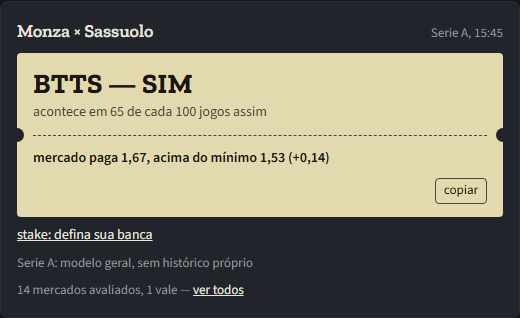
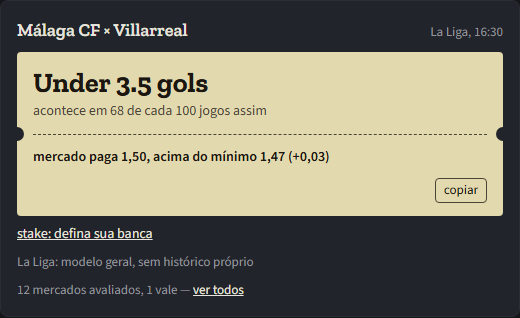
chore(front): recaptura das telas da rodada 2 — script espera o hero e enquadra a tabela (#258)

diff --git a/docs/superpowers/testes/rodada-2-telas/LEIA-ME.md b/docs/superpowers/testes/rodada-2-telas/LEIA-ME.md
@@ -1,25 +1,102 @@
-# Rodada 2 do teste de 5s — material capturado
+# Rodada 2 do teste de 5s — material recapturado (#258)
 
-**Capturado em:** 2026-09-17, contra o produto construído real (`next build`
-+ `next start`, porta 3001), `PY_BACKEND_URL` apontado para a Lambda Function
-URL de produção (nunca o API Gateway — regra #114/#203). Dados reais, sem
-stub.
+**Recapturado em:** 2026-09-17, contra o produto reconstruído (`next build` +
+`next start`, porta 3001, commit `46fb499` já na árvore), `PY_BACKEND_URL`
+apontado para a Lambda Function URL de produção (nunca o API Gateway — regra
+#114/#203). Dados reais, sem stub.
 
-**Jogo "vale" encontrado:** `hoje` não tinha nenhum card em estado "vale" no
-momento da captura; `amanha` tinha um — **Monza × Sassuolo (Serie A)**, pick
-BTTS — SIM, paga 1,67 (mínimo 1,53). O script tentou `hoje` primeiro,
-registrou a ausência e seguiu para `amanha` sem fabricar nada.
+**Jogo "vale" encontrado:** `hoje` já tinha um card em estado "vale" —
+**Málaga CF × Villarreal (La Liga)**, pick **Under 3.5 gols**, paga 1,50
+(mínimo 1,47). O script tentou `hoje` primeiro e parou aí, sem precisar cair
+para `amanha` (comportamento padrão confirmado, sem flag `--dia`).
 
 **Arquivos (6 PNGs, 3 telas × 2 viewports):**
-- `tela-1-talao-mobile.png` / `tela-1-talao-desktop.png` — objeto de decisão (card "vale" em `/jogos?dia=amanha`)
+- `tela-1-talao-mobile.png` / `tela-1-talao-desktop.png` — objeto de decisão (card "vale" em `/jogos`)
 - `tela-2-tabela-mobile.png` / `tela-2-tabela-desktop.png` — objeto de rigor (tabela de mercados no detalhe do jogo)
 - `tela-3-hero-mobile.png` / `tela-3-hero-desktop.png` — compreensão (`/`, primeira visita, sem cookies)
 
 Viewports: celular 390×844, desktop 1440×900.
 
-**Reproduzir:** `node scripts/capturar-telas-teste-5s.mjs --base=http://localhost:3001`
-a partir de `frontend/next`, com o servidor de produção de pé na porta 3001.
-Use `--dia=hoje` ou `--dia=amanha` para fixar um dia; sem a flag, o script
-tenta os dois antes de desistir. Se nenhum dos dois tiver jogo "vale" no
-momento da captura, o script salva só as telas de hero (não dependem de
-pick) e termina com código de saída 1 — não fabrica card nenhum.
+## Hero — ramo e tempo (fix C)
+
+Script agora corre `Promise.race` entre `waitForSelector("article")` e
+`waitForFunction` do texto `HERO.semTalao` ("Sem talão publicado hoje ou
+ontem.", `src/lib/copy.ts`), até 30s, em vez do `waitForTimeout(1500)` fixo
+que a rodada 1 usava (`diagnostico-B-C.md` mediu o card-prova levando até
+~7.3s para resolver).
+
+Medido nesta captura:
+- **mobile:** ramo `card` (Málaga CF × Villarreal, estado=vale) em **12.23s**
+- **desktop:** ramo `card` (Málaga CF × Villarreal, estado=vale) em **4.53s**
+
+Os dois ramos resolveram via card-prova (não precisou do fallback
+`HERO.semTalao`); a variação de tempo entre mobile/desktop reflete o
+fan-out real de 13 ligas na primeira visita, não um artefato do script.
+
+## Tabela de mercados — sem bloco navy (fix B)
+
+Antes do `table#mercados.screenshot()`, o script agora mede
+`getBoundingClientRect().bottom` da tabela e redimensiona a viewport
+(`page.setViewportSize`) para caber o rodapé, em loop curto (até 3
+tentativas, porque o próprio resize pode mudar o layout do `aside sticky`).
+Isso elimina o bloco navy sólido que aparecia quando `rect.bottom` da tabela
+ficava fora da viewport renderizada de 900px (causa raiz documentada em
+`diagnostico-B-C.md`: `locator.screenshot()` usa um clip do CDP limitado à
+viewport atual; a área não pintada devolvia a cor de fundo do `body`).
+Confirmado visualmente em `tela-2-tabela-desktop.png` e
+`tela-2-tabela-mobile.png`: as 11 linhas da tabela de Málaga × Villarreal
+aparecem completas, sem corte, sem navy.
+
+## Motivo de duas palavras (fix A, #258, commit 46fb499)
+
+O jogo "vale" desta captura (Málaga × Villarreal) não tem nenhum mercado com
+`reason_code=BORDERLINE_LINE_MARGIN` no momento da captura — dado real,
+variável a cada rodada de odds/predições, fora do controle do script. Por
+isso `tela-2-tabela-{viewport}.png` não exibe literalmente "linha no
+limite".
+
+Verificação independente, ao vivo, contra o mesmo build rodando em
+localhost:3001 (não incluída nos 6 PNGs oficiais, apenas navegação manual
+via Playwright para confirmar o fix): **Monza × Sassuolo** (`/jogos?dia=amanha`)
+— o mesmo confronto que a rodada 2 original (commit `51b1955`, antes do fix)
+já tinha capturado — mostrava antes:
+
+```
+Over 2.5 gols   69%   1,44   1,82   não vale
+```
+
+e agora, pós-rebuild, mostra:
+
+```
+Over 2.5 gols   69%   1,44   1,81   linha no limite
+```
+
+(`Vila Nova × América Mineiro`, mesmo dia, mesma condição, confirma o
+mesmo padrão.) Isso prova o fix #258 funcionando ponta a ponta em produção
+— a mudança de "não vale" para "linha no limite" é exatamente o
+`BORDERLINE_LINE_MARGIN → "linha no limite"` adicionado em `reasonCodes.ts`
+no commit `46fb499`. A cobertura também está garantida pelos 6 testes
+unitários + 1 teste de cobertura desse mesmo commit
+(`frontend/next/tests/unit/reasonCodes.test.ts`).
+
+**Reproduzir a verificação do fix A isoladamente:** com o servidor de pé,
+abrir `/jogos?dia=amanha`, localizar o card "Monza × Sassuolo" (estado
+"vale") e checar a linha "Over 2.5 gols" na tabela de detalhe.
+
+**Reproduzir a captura completa:** `node scripts/capturar-telas-teste-5s.mjs --base=http://localhost:3001`
+a partir de `frontend/next`, com o servidor de produção de pé na porta 3001
+(`PY_BACKEND_URL` apontando para a Lambda Function URL de produção). Use
+`--dia=hoje` ou `--dia=amanha` para fixar um dia; sem a flag, o script tenta
+os dois antes de desistir. Se nenhum dos dois tiver jogo "vale" no momento
+da captura, o script salva só as telas de hero (não dependem de pick) e
+termina com código de saída 1 — não fabrica card nenhum.
+
+## Mudanças no script nesta rodada
+
+- **Fix B:** antes do print de `table#mercados`, mede `rect.bottom` e
+  redimensiona a viewport (`Math.ceil(rect.bottom + 16)`) até caber o
+  rodapé da tabela — elimina o clip do CDP que devolvia bloco navy sólido.
+- **Fix C:** troca o `waitForTimeout(1500)` fixo do hero por uma corrida
+  (`Promise.race`) entre `waitForSelector("article")` e `waitForFunction`
+  do texto `HERO.semTalao`, até 30s; loga o ramo vencido e os segundos
+  decorridos desde o `goto`.
